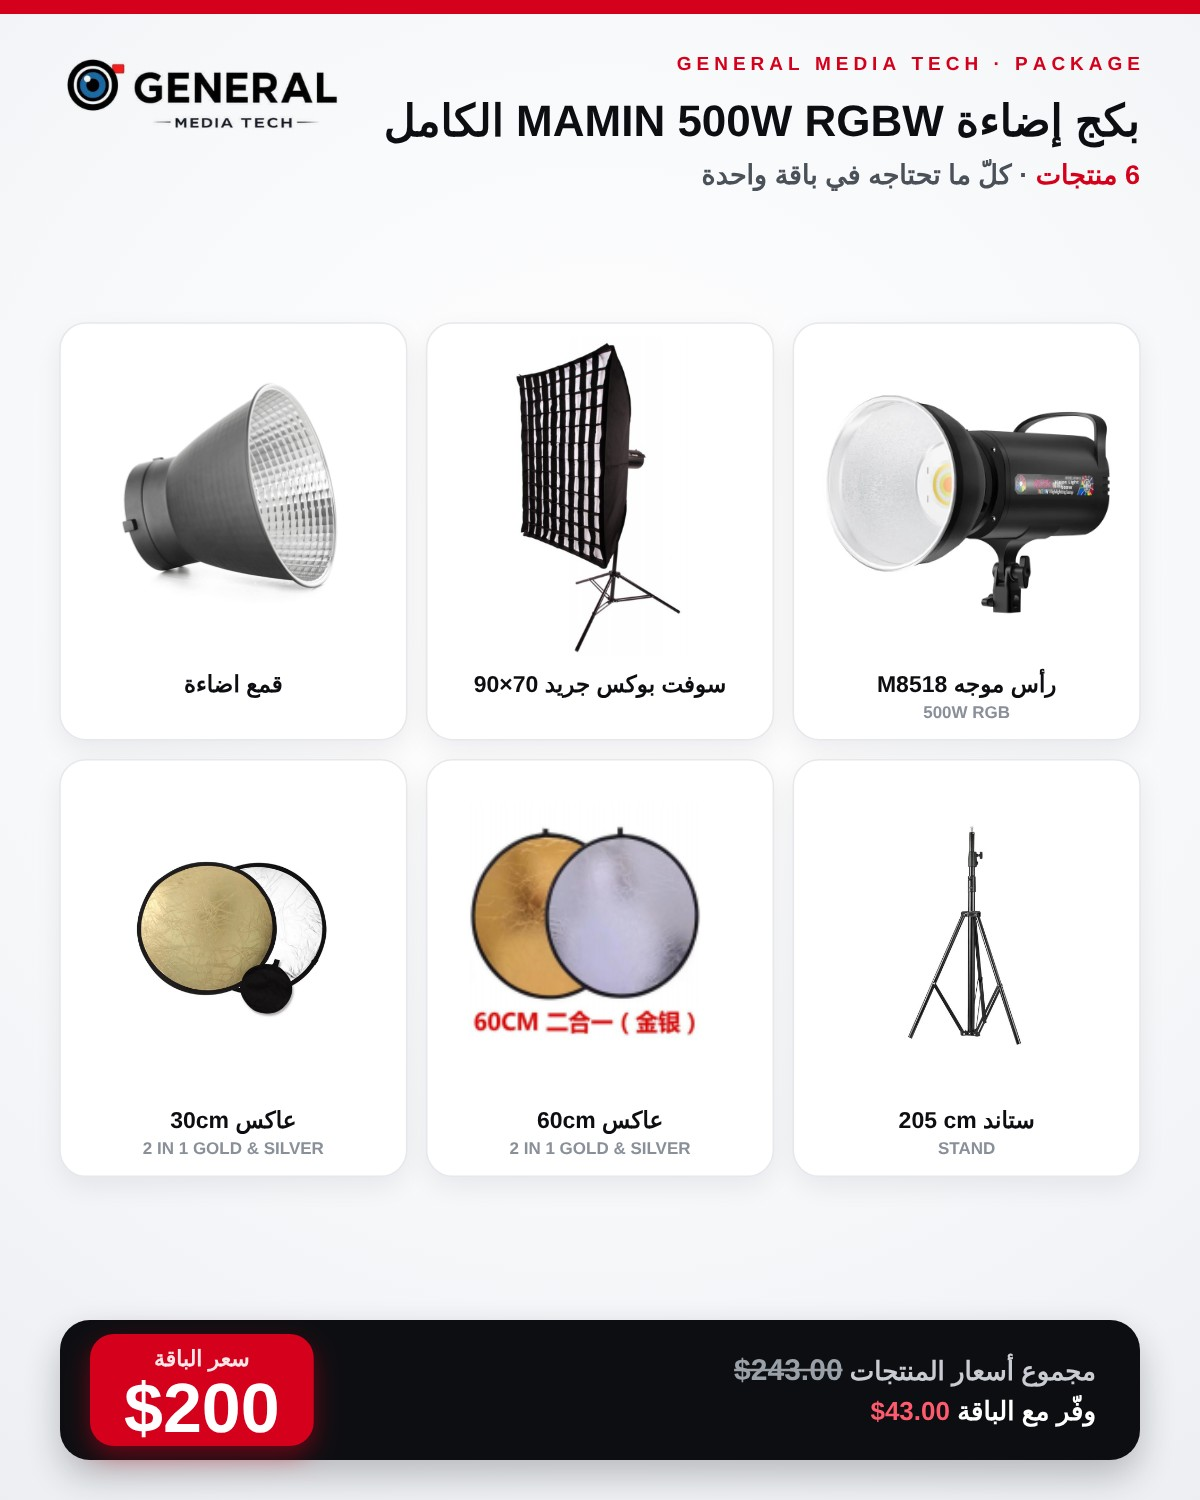
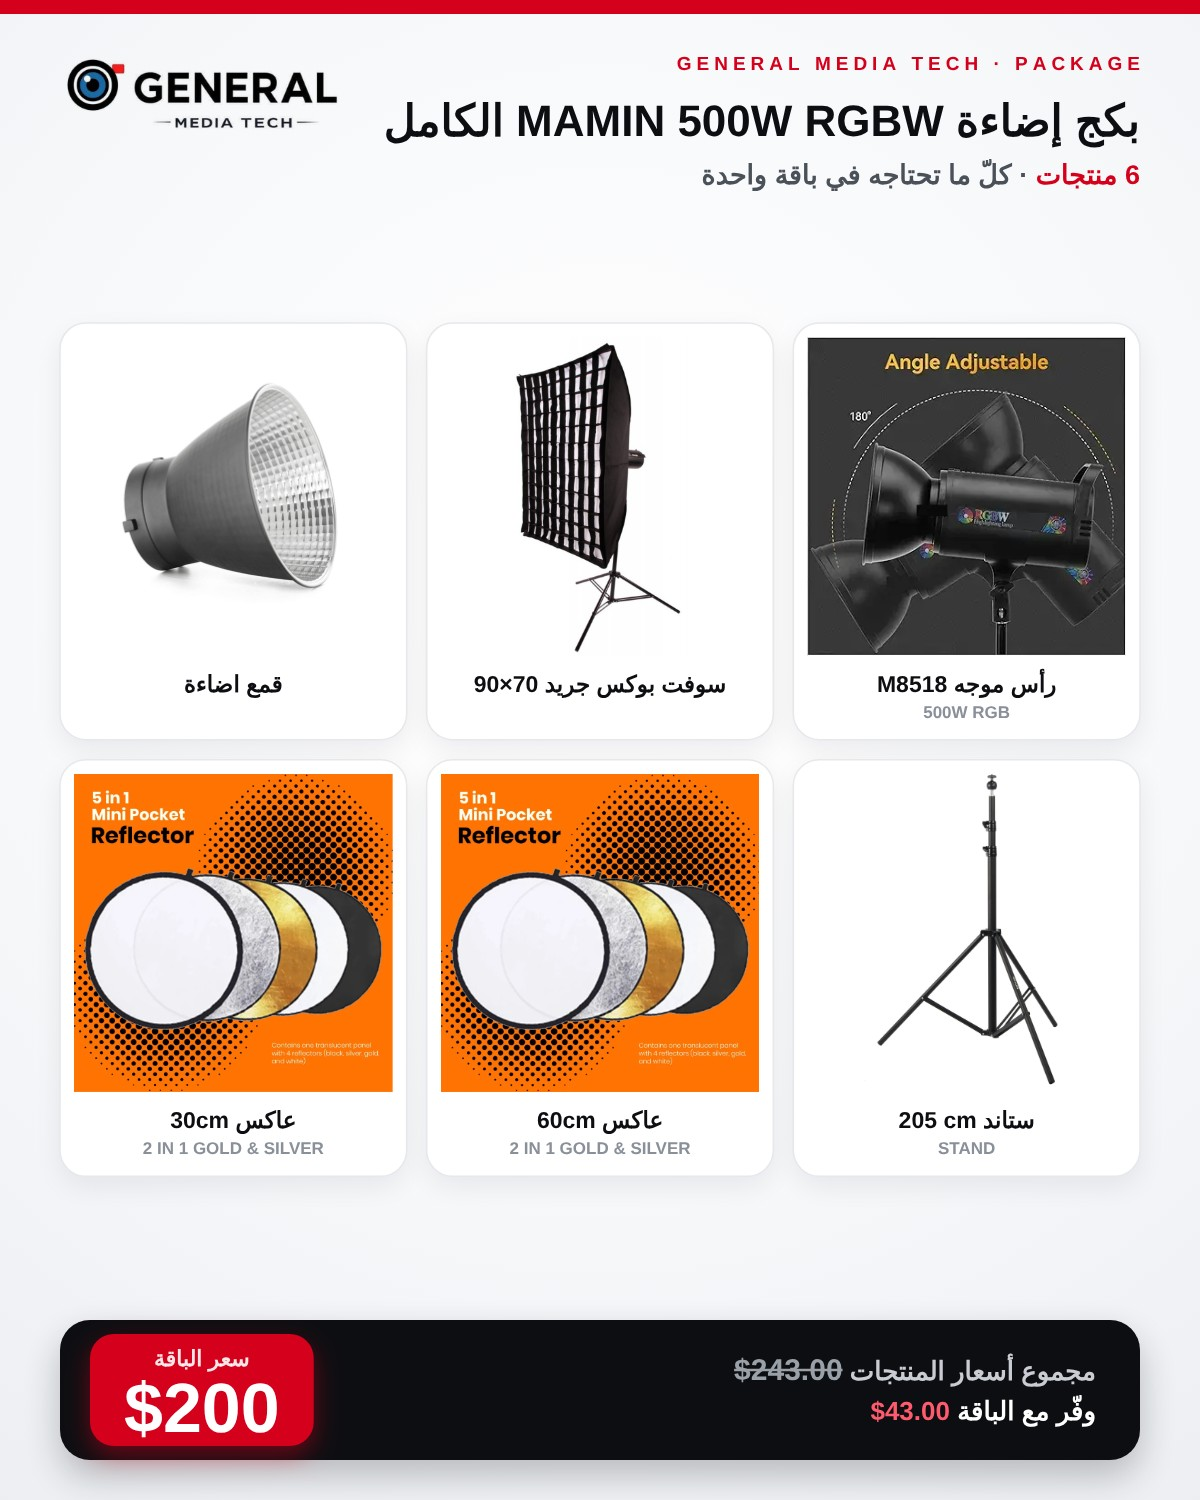
TASK-B0403 (seq 714): صورة الشبكة تلقائياً عند حفظ أيّ باقة + صور المنتجات الأساسية (البوستر) في القالب · gmt-v20261115l
Claude-Session: https://claude.ai/code/session_01XEjHNW9dqo1zWS8cEcUN7i

Changed region(s): [[0.0617, 0.4907, 0.6475, 0.736], [0.6475, 0.2147, 0.9558, 0.46], [0.74, 0.5213, 0.8942, 0.736]]

diff --git a/gmt-packages.js b/gmt-packages.js
@@ -266,25 +266,29 @@
       if ((el = e.target.closest('[data-m]'))) { var nm = el.getAttribute('data-m'); if (nm !== S.mode) { var cc = compute(S.items, S.mode, S.value); S.mode = nm; S.value = nm === 'price' ? cc.price : nm === 'percent' ? cc.pct : cc.save; } paint(); return; }
       if ((el = e.target.closest('[data-cat]'))) { var ck = el.getAttribute('data-cat'), ix = S.cats.indexOf(ck); if (ix === -1) S.cats.push(ck); else S.cats.splice(ix, 1); paintCats(); return; }
       if ((el = e.target.closest('[data-img]'))) { addImg(el.getAttribute('data-img')); return; }
-      if (e.target.closest('[data-gengrid]')) {
-        (async function () { var err = $('[data-err]'), M = g.GMT_DB && g.GMT_DB.MAIN; if (!S.items.length) { err.textContent = 'أضف منتجات الباقة أوّلاً'; return; }
-          if (!M || !M.url) { err.textContent = 'تعذّر الرفع: لا اتصال بالقاعدة'; return; }
-          err.textContent = '⏳ توليد صورة المنتجات…';
-          try { var blob = await makeGrid(); if (!blob) throw new Error('تعذّر رسم الصورة (صورة منتج من موقعٍ يمنع النسخ؟)');
-            var path = 'packages/grid_' + Date.now() + '.jpg';
-            var r = await fetch(M.url + '/storage/v1/object/products-images/' + path, { method: 'POST', headers: { apikey: M.key, Authorization: 'Bearer ' + M.key, 'Content-Type': 'image/jpeg', 'x-upsert': 'true' }, body: blob });
-            if (!r.ok) throw new Error('HTTP ' + r.status);
-            var u = M.url + '/storage/v1/object/public/products-images/' + path; if (S.images.indexOf(u) === -1) S.images.splice(Math.min(1, S.images.length), 0, u);   // بعد الواجهة
-            err.textContent = ''; paintImgs();
-          } catch (x2) { err.textContent = 'تعذّر توليد صورة المنتجات: ' + (x2 && x2.message || x2); } })();
-        return;
-      }
+      if (e.target.closest('[data-gengrid]')) { genGrid(); return; }
       if (e.target.closest('[data-addurl]')) { addImg($('[data-cover]').value); $('[data-cover]').value = ''; return; }
       if ((el = e.target.closest('[data-imv]'))) { var pr = el.getAttribute('data-imv').split(':'), a = +pr[0], b = a + (+pr[1]); if (b < 0 || b >= S.images.length) return; var t0 = S.images[a]; S.images[a] = S.images[b]; S.images[b] = t0; paintImgs(); return; }
       if ((el = e.target.closest('[data-imf]'))) { var fi = +el.getAttribute('data-imf'); S.images.unshift(S.images.splice(fi, 1)[0]); paintImgs(); return; }
       if ((el = e.target.closest('[data-imx]'))) { S.images.splice(+el.getAttribute('data-imx'), 1); paintImgs(); return; }
       if (e.target.closest('[data-save]')) doSave();
     });
+    /* (seq 713–714) صورة الشبكة: الزرّ يولّدها · والحفظ يولّدها تلقائياً إن غابت — «هذا النمط لازم يكون لكل العروض ولكل البكجات» · مكانها بعد بوستر المالك */
+    var isGridUrl = function (u) { return /\/grid_|pkg_grid_|pkg_content_creator_2026-11-14\.jpg/.test(String(u || '')); };
+    async function genGrid() {
+      var err = $('[data-err]'), M = g.GMT_DB && g.GMT_DB.MAIN; if (!S.items.length) { err.textContent = 'أضف منتجات الباقة أوّلاً'; return false; }
+      if (!M || !M.url) { err.textContent = 'تعذّر الرفع: لا اتصال بالقاعدة'; return false; }
+      err.textContent = '⏳ توليد صورة المنتجات…';
+      try { var blob = await makeGrid(); if (!blob) throw new Error('تعذّر رسم الصورة (صورة منتج من موقعٍ يمنع النسخ؟)');
+        var path = 'packages/grid_' + Date.now() + '.jpg';
+        var r = await fetch(M.url + '/storage/v1/object/products-images/' + path, { method: 'POST', headers: { apikey: M.key, Authorization: 'Bearer ' + M.key, 'Content-Type': 'image/jpeg', 'x-upsert': 'true' }, body: blob });
+        if (!r.ok) throw new Error('HTTP ' + r.status);
+        var u = M.url + '/storage/v1/object/public/products-images/' + path;
+        S.images = S.images.filter(function (x) { return !isGridUrl(x); });   // صورة شبكة واحدة (الأحدث)
+        S.images.splice(Math.min(1, S.images.length), 0, u);   // بعد بوستر المالك
+        err.textContent = ''; paintImgs(); return true;
+      } catch (x2) { err.textContent = 'تعذّر توليد صورة المنتجات: ' + (x2 && x2.message || x2); return false; }
+    }
     async function doSave() {
       var err = $('[data-err]'), btn = $('[data-save]'); err.textContent = '';
       var name = $('[data-name]').value.trim(), c = compute(S.items, S.mode, S.value);
@@ -294,6 +298,7 @@
       if (!(c.price > 0)) { err.textContent = 'سعر الباقة يجب أن يكون أكبر من صفر'; return; }
       var pos = $('[data-pos]').checked, sto = $('[data-store]').checked;
       if (!pos && !sto) { err.textContent = 'اختر أين تظهر: نقاط البيع أو المتجر'; return; }
+      if (sto && S.items.length && !S.images.some(isGridUrl)) { await genGrid(); err.textContent = ''; }   // (seq 714) كلّ باقة في المتجر لها صورة الشبكة
       if (sto && !S.cats.length) { err.textContent = 'اختر قسماً واحداً على الأقلّ في المتجر («باقات وعروض» أو غيره)'; return; }
       var endsRaw = $('[data-ends]').value, act = $('[data-active]');
       /* (seq B690) الصور كما رتّبها المدير — لا تُعاد بناؤها من صور المنتجات عند الحفظ */

diff --git a/tools/pkg_grid.js b/tools/pkg_grid.js
@@ -26,7 +26,7 @@ const parse = o => { let p = o.products; try { if (typeof p === 'string') p = JS
   let offers = await (await fetch(U + '/rest/v1/' + q, { headers: H })).json();
   if (all) offers = offers.filter(o => { const t = o.targets || {}; const im = Array.isArray(o.images) ? o.images : []; return t.store !== false && !im.concat(o.image_url || []).some(isGrid) && parse(o).length; });
   if (!offers.length) { console.log('لا باقات'); return; }
-  /* (المالك seq 713 «للمنتجات بخلفيات بيضاء») صورة كلّ قطعة = أنصع خلفيةٍ بيضاء بين صورها في الجرد والمتجر */
+  /* صورة كلّ قطعة = صورتها الأولى في المتجر (البوستر) — المالك seq 714 */
   let storeById = {};
   if (SU && SK) { try { const st = (await (await fetch(SU + '/rest/v1/gmt_store?id=eq.1&select=products', { headers: { apikey: SK, Authorization: 'Bearer ' + SK } })).json())[0]; (st.products || []).forEach(p => { storeById[p.id] = p; }); } catch (_) {} }
   const b = await chromium.launch(); const pg = await b.newPage();
@@ -38,13 +38,9 @@ const parse = o => { let p = o.products; try { if (typeof p === 'string') p = JS
     const full = [];
     for (const x of items) {
       const r = by[x.id] || {}, sid = (String(r.store_url || '').match(/#product=([^&]+)/) || [])[1], sp = sid ? storeById[decodeURIComponent(sid)] : null;
-      const cands = [r.image_url || x.image_url, ...((sp && sp.images) || [])].filter((u, i, a) => u && a.indexOf(u) === i).slice(0, 8);
-      const urls = []; for (const u of cands) { const d = await dataUrl(u); if (d) urls.push(d); }
-      const best = urls.length > 1 ? await pg.evaluate(async list => {   // زوايا وحوافّ بيضاء + المنتج يملأ مساحةً معقولة
-        const sc = async u => { const im = new Image(); im.src = u; try { await im.decode(); } catch (_) { return -1; } const c = document.createElement('canvas'), W = 96, H = Math.max(8, Math.round(96 * im.height / im.width)); c.width = W; c.height = H; const g = c.getContext('2d'); g.drawImage(im, 0, 0, W, H); const d = g.getImageData(0, 0, W, H).data;
-          let edge = 0, en = 0, ink = 0; for (let y = 0; y < H; y++) for (let x = 0; x < W; x++) { const i = (y * W + x) * 4, v = (d[i] + d[i + 1] + d[i + 2]) / 3, e = x < 5 || y < 5 || x >= W - 5 || y >= H - 5; if (e) { en++; if (v > 236) edge++; } if (v < 225) ink++; }
-          const ar = im.width / im.height, frac = ink / (W * H); return (edge / en) * 2 + (frac > 0.12 && frac < 0.75 ? 0.5 : 0) + (ar > 0.7 && ar < 1.45 ? 0.3 : 0); };
-        let bi = 0, bs = -9; for (let i = 0; i < list.length; i++) { const v = await sc(list[i]); if (v > bs) { bs = v; bi = i; } } return bi; }, urls) : 0;
+      /* (المالك seq 714) «الستاند حطّ صورة البوستر · دوماً في هذه الأداة وهذا القالب اختار صورة المنتج نفسها وليس صورة المنتج على خلفية بيضاء» ⇒ الصورة الأولى للمنتج في المتجر (بوستره) ثمّ صورة الجرد */
+      const main = ((sp && sp.images) || [])[0] || r.image_url || x.image_url || '';
+      const urls = [await dataUrl(main)].filter(Boolean), best = 0;
       full.push({ name: x.name || r.name, qty: Number(x.qty) || 1, price: Number(r.price) || Number(x.price) || 0, image_url: urls[best] || '' });
     }
     const sum = Math.round(full.reduce((t, x) => t + x.price * x.qty, 0) * 100) / 100, price = Number(o.offer_price) || 0;

diff --git a/gmt-whatsnew.js b/gmt-whatsnew.js
@@ -34,6 +34,8 @@
      v (رقم الدفعة) · t (العنوان) · d (شو صار) · w (ليش — العطل الذي أُصلح)
      pages (الصفحات المعنيّة · فارغة = الكلّ) · tag (نوع البند) */
   var NEWS = [
+    { v: 326, tag: 'تحسين', at: '2026-11-15T10:30:00Z', t: '🧩 صورة الشبكة تلقائياً لكلّ باقة · بصور المنتجات نفسها', pages: ['admin_pos.html', 'store.html'],
+      d: '• **حفظ أيّ باقة أو عرض للمتجر** بلا صورة شبكة ⇒ تُولَّد تلقائياً وتوضع ثانيةً بعد بوستر المالك (نفس قالب بكج صناعة المحتوى).\n• صورة كلّ منتج في الشبكة = **صورته الأساسية (البوستر)** لا صورة على خلفية بيضاء.' },
     { v: 325, tag: 'تحسين', at: '2026-11-15T10:00:00Z', t: '🧩 الباقات: صورة شبكة المنتجات للكلّ + ترتيب ثابت للصور', pages: ['store.html', 'admin_pos.html'],
       d: '• **ترتيب صور كلّ باقة دائماً:** بوستر المالك ⇐ صورة شبكة المنتجات (بخلفيات بيضاء) ⇐ الفيديو ⇐ بوسترات المنتجات **من الأغلى إلى الأرخص**.\n• **صورة الشبكة** صارت بنفس تصميم بكج صناعة المحتوى تماماً (اسم عربي وسطر إنكليزي لكلّ قطعة · شارة الكمية · شريط السعر) — زرّ «توليد صورة المنتجات» في المدير يرسمها هكذا لأيّ باقة.\n• بكج MAMIN 500W صارت له صورة شبكته، وبكج صناعة المحتوى صار له فيديو.' },
     { v: 324, tag: 'جديد', at: '2026-11-15T09:00:00Z', t: '🎬 فيديوهات المنتجات داخل المتجر + بكج MAMIN 500W', pages: ['store.html'],

diff --git a/sw.js b/sw.js
@@ -18,7 +18,7 @@
       ⇒ غيّر VERSION في كل نشر، وسيُعرض إشعار تحديث تلقائياً.
    ═══════════════════════════════════════════════════════════════════════════ */
 
-const VERSION = 'gmt-v20261115k';       // ⬅ غيّره في كل نشر
+const VERSION = 'gmt-v20261115l';       // ⬅ غيّره في كل نشر
 const LIBS    = VERSION + '-libs';
 /* (22 ت1 · TASK-0122) ملفّات قارئ الإيصال (lib/ocr: نواة التعرّف ٣٫٩ م.ب + نموذج العربية ١٫٧ م.ب) — كانت «الشبكة أوّلاً» مثل
    صفحات الموقع، فتُطلب من الشبكة في كل فتحة صفحة (بطيءٌ على اتّصالٍ ضعيف). محتواها ثابتٌ لاسمها (tesseract.js 7.0.0)

diff --git a/admin_store.html b/admin_store.html
@@ -3730,7 +3730,7 @@ renderOffersAdmin = function(){ GMTOffersTool.mount('gmt-offers-mount-store'); }
 <script src="gmt-brain.js?v=20261029z4"></script>
 <!-- 🆕 «شو الجديد» — نافذة تُعرَض مرّة واحدة لكل دفعة، وزرّ دائم بعدها.
      لا تُحمَّل على صفحات الزبون إطلاقاً (أخبار داخلية). -->
-<script src="gmt-whatsnew.js?v=20261115k"></script>
+<script src="gmt-whatsnew.js?v=20261115l"></script>
 <script src="gmt-refresh.js?v=20261011a"></script>
 <script src="gmt-intro.js?v=20261010b"></script>
 <!-- 🚫 (2026-10-03) حارس «لا أزرار عائمة» — كان مرفوعاً على ٥ صفحات من ٤٦،

diff --git a/user_guide.html b/user_guide.html
@@ -660,7 +660,7 @@ h3{font-size:16px;font-weight:900;color:#D5001C;margin:28px 0 10px}
 <script src="gmt-brain.js?v=20261029z4"></script>
 <!-- 🆕 «شو الجديد» — نافذة تُعرَض مرّة واحدة لكل دفعة، وزرّ دائم بعدها.
      لا تُحمَّل على صفحات الزبون إطلاقاً (أخبار داخلية). -->
-<script src="gmt-whatsnew.js?v=20261115k"></script>
+<script src="gmt-whatsnew.js?v=20261115l"></script>
 <script src="gmt-refresh.js?v=20261011a"></script>
 <script src="gmt-intro.js?v=20261010b"></script>
 <!-- 🚫 (2026-10-03) حارس «لا أزرار عائمة» — كان مرفوعاً على ٥ صفحات من ٤٦،

diff --git a/تفعيل_عقل_النظام.html b/تفعيل_عقل_النظام.html
@@ -259,7 +259,7 @@ supabase functions deploy gmt-brain --no-verify-jwt</code></pre>
 <!-- 🆕 «شو الجديد» — نافذة تُعرَض مرّة واحدة لكل دفعة، وزرّ دائم بعدها.
      لا تُحمَّل على صفحات الزبون إطلاقاً (أخبار داخلية). -->
 <script src="gmt-endpoint.js?v=20261017c"></script>
-<script src="gmt-whatsnew.js?v=20261115k"></script>
+<script src="gmt-whatsnew.js?v=20261115l"></script>
 <script src="gmt-refresh.js?v=20261011a"></script>
 <script src="gmt-intro.js?v=20261010b"></script>
 <!-- 🚫 (2026-10-03) حارس «لا أزرار عائمة» — كان مرفوعاً على ٥ صفحات من ٤٦،

diff --git a/bridge.html b/bridge.html
@@ -1694,7 +1694,7 @@ window.addEventListener('DOMContentLoaded', async () => {
 <script src="gmt-brain.js?v=20261029z4"></script>
 <!-- 🆕 «شو الجديد» — نافذة تُعرَض مرّة واحدة لكل دفعة، وزرّ دائم بعدها.
      لا تُحمَّل على صفحات الزبون إطلاقاً (أخبار داخلية). -->
-<script src="gmt-whatsnew.js?v=20261115k"></script>
+<script src="gmt-whatsnew.js?v=20261115l"></script>
 <script src="gmt-refresh.js?v=20261011a"></script>
 <script src="gmt-intro.js?v=20261010b"></script>
 <!-- 🚫 (2026-10-03) حارس «لا أزرار عائمة» — كان مرفوعاً على ٥ صفحات من ٤٦،

diff --git a/hiring.html b/hiring.html
@@ -1966,7 +1966,7 @@ document.addEventListener('DOMContentLoaded', () => {
 <script src="gmt-selfcheck.js?v=20261108f"></script>
 <!-- 🆕 «شو الجديد» — نافذة تُعرَض مرّة واحدة لكل دفعة، وزرّ دائم بعدها.
      لا تُحمَّل على صفحات الزبون إطلاقاً (أخبار داخلية). -->
-<script src="gmt-whatsnew.js?v=20261115k"></script>
+<script src="gmt-whatsnew.js?v=20261115l"></script>
 <script src="gmt-refresh.js?v=20261011a"></script>
 <script src="gmt-intro.js?v=20261010b"></script>
 <!-- 🚫 (2026-10-03) حارس «لا أزرار عائمة» — كان مرفوعاً على ٥ صفحات من ٤٦،

diff --git a/backup.html b/backup.html
@@ -365,7 +365,7 @@ async function doRestore(dbKey, fname, table) {
 <script src="gmt-brain.js?v=20261029z4"></script>
 <!-- 🆕 «شو الجديد» — نافذة تُعرَض مرّة واحدة لكل دفعة، وزرّ دائم بعدها.
      لا تُحمَّل على صفحات الزبون إطلاقاً (أخبار داخلية). -->
-<script src="gmt-whatsnew.js?v=20261115k"></script>
+<script src="gmt-whatsnew.js?v=20261115l"></script>
 <script src="gmt-refresh.js?v=20261011a"></script>
 <script src="gmt-intro.js?v=20261010b"></script>
 <!-- 🚫 (2026-10-03) حارس «لا أزرار عائمة» — كان مرفوعاً على ٥ صفحات من ٤٦،

diff --git a/admin_sovereign.html b/admin_sovereign.html
@@ -384,7 +384,7 @@ function savePwManager(){ openPwManager(); }
 <script src="gmt-brain.js?v=20261029z4"></script>
 <!-- 🆕 «شو الجديد» — نافذة تُعرَض مرّة واحدة لكل دفعة، وزرّ دائم بعدها.
      لا تُحمَّل على صفحات الزبون إطلاقاً (أخبار داخلية). -->
-<script src="gmt-whatsnew.js?v=20261115k"></script>
+<script src="gmt-whatsnew.js?v=20261115l"></script>
 <script src="gmt-refresh.js?v=20261011a"></script>
 <script src="gmt-intro.js?v=20261010b"></script>
 <!-- 🚫 (2026-10-03) حارس «لا أزرار عائمة» — كان مرفوعاً على ٥ صفحات من ٤٦،

diff --git a/checks.html b/checks.html
@@ -423,7 +423,7 @@ el('copyall').onclick = function(){
 <script src="gmt-brain.js?v=20261029z4"></script>
 <!-- 🆕 «شو الجديد» — نافذة تُعرَض مرّة واحدة لكل دفعة، وزرّ دائم بعدها.
      لا تُحمَّل على صفحات الزبون إطلاقاً (أخبار داخلية). -->
-<script src="gmt-whatsnew.js?v=20261115k"></script>
+<script src="gmt-whatsnew.js?v=20261115l"></script>
 <script src="gmt-refresh.js?v=20261011a"></script>
 <script src="gmt-intro.js?v=20261010b"></script>
 <!-- 🚫 (2026-10-03) حارس «لا أزرار عائمة» — كان مرفوعاً على ٥ صفحات من ٤٦،
